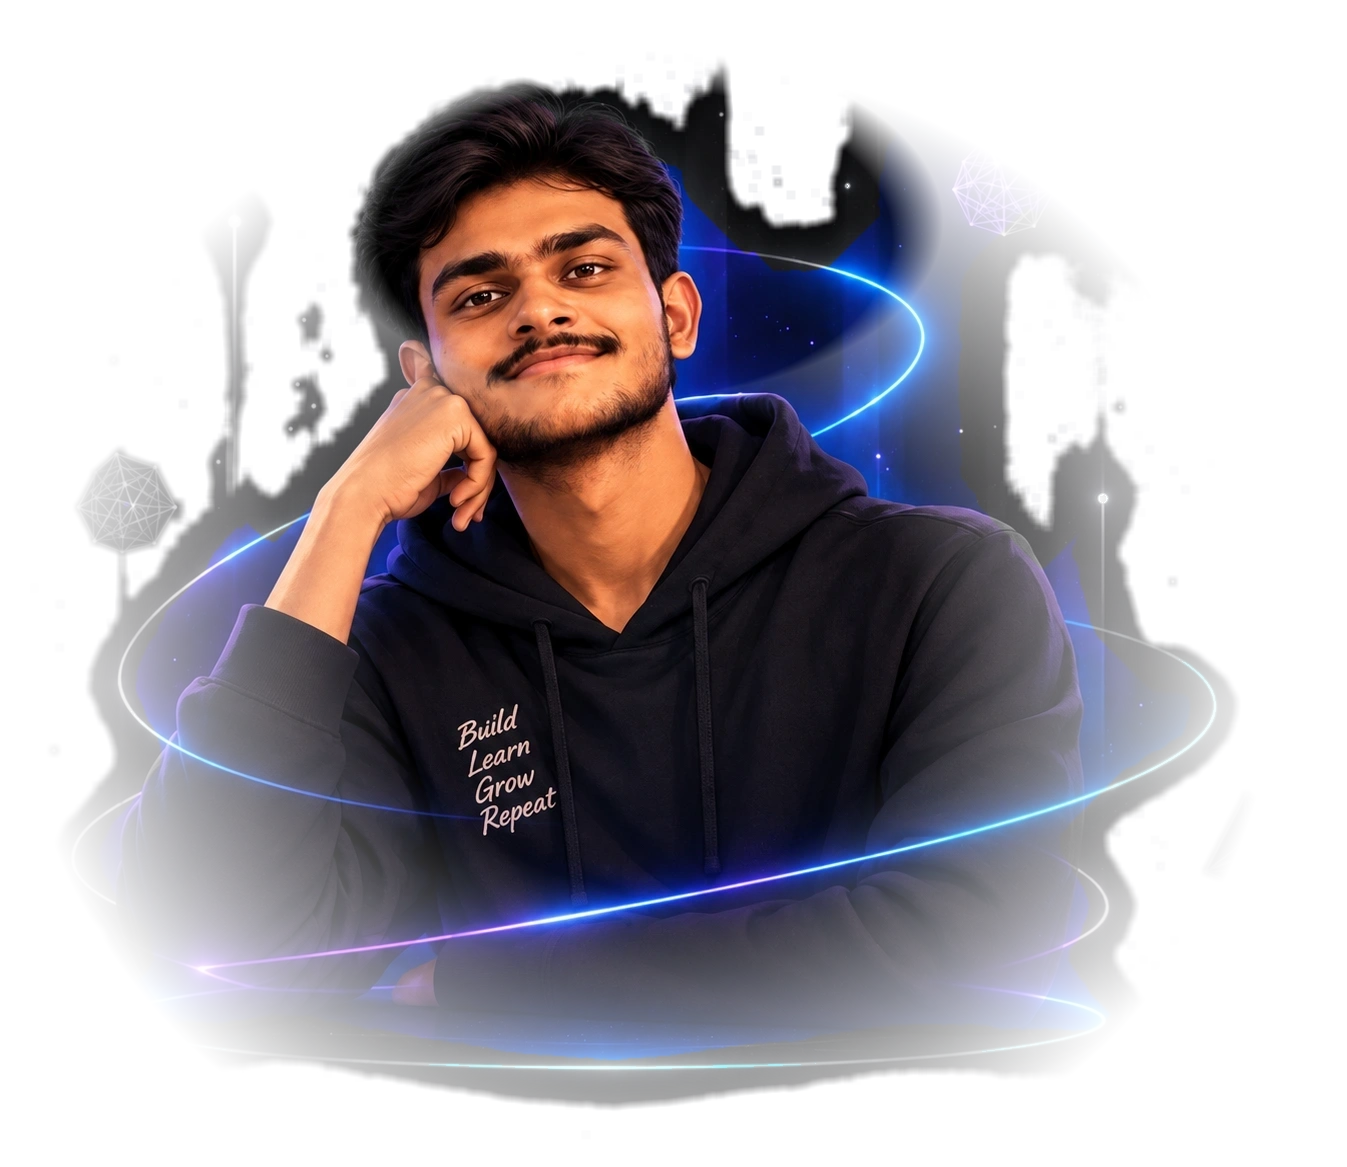
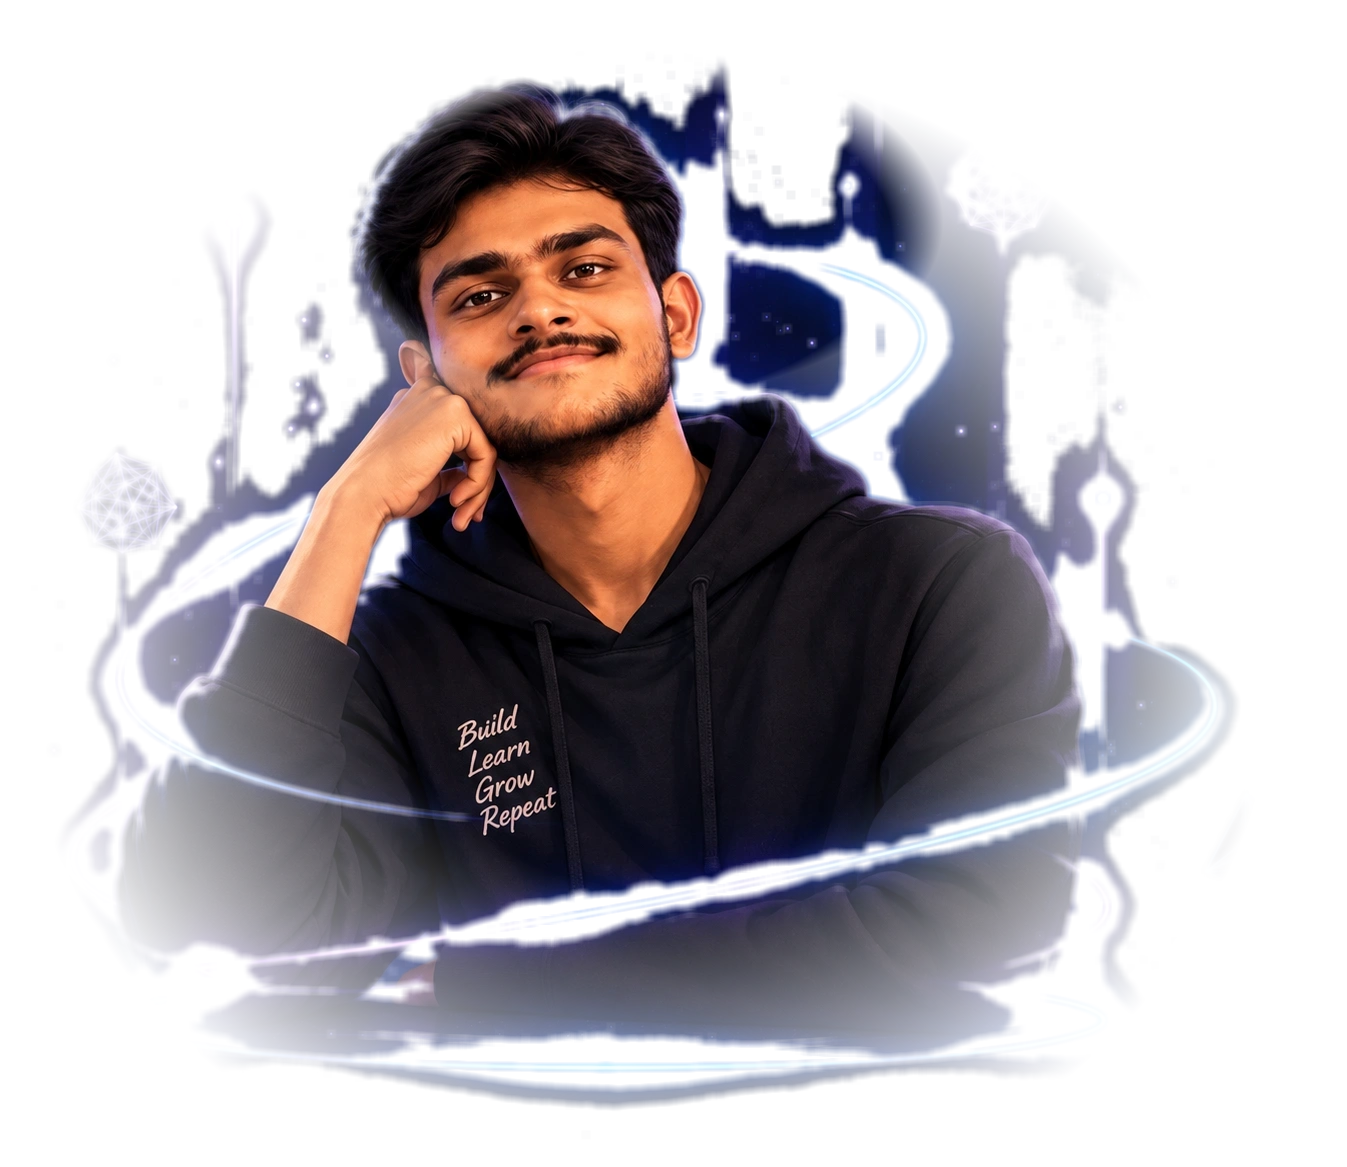
Rebuild cutout pipeline, clear rings from face, enlarge portrait ~25%
The residual background patch fused to the hoodie (a recurring issue)
finally gets resolved: after the safe border flood-fill, a second pass
strips any remaining pixel that is BOTH saturated and blue/purple-hued,
regardless of connectivity - this is what pure flood-fill could never
separate, since the patch and the hoodie share similar RGB values along
their connected boundary. Tuned the saturation/lightness thresholds
carefully (an earlier attempt was too aggressive and ate holes in the
hoodie fabric, which has genuine faint blue ambient shading) so only
vivid glow/ring pixels get removed, not fabric shading. This also
removes the photo's own baked-in ring, which is fine since fresh
procedural 3D rings replace it.

Orbit rings were passing directly across the eyes/face - moved them
down (yOffset) so they clear the chin entirely and wrap the torso/
shoulders only, per explicit requirement that they never cross the
face.

Grew the portrait notably: the previous width increases were mostly
inert because the CSS px cap was never the real constraint - the grid
column width was. Rebalanced hero-grid from 1.05fr/0.95fr to
0.85fr/1.15fr, which is what actually grows the rendered portrait size
(~25%) while keeping the text column within its existing max-width.

diff --git a/src/components/hero/HeroPortraitScene.jsx b/src/components/hero/HeroPortraitScene.jsx
@@ -37,14 +37,14 @@ function Portrait({ texture, floatEnabled }) {
   );
 }
 
-function OrbitRing({ radius, tilt, speed, color, opacity, thickness = 0.014, direction = 1 }) {
+function OrbitRing({ radius, tilt, speed, color, opacity, thickness = 0.014, direction = 1, yOffset = 0 }) {
   const ref = useRef(null);
   useFrame((_, delta) => {
     if (!ref.current) return;
     ref.current.rotation.z += delta * speed * direction;
   });
   return (
-    <mesh ref={ref} rotation={[tilt, 0, 0]}>
+    <mesh ref={ref} position={[0, yOffset, 0]} rotation={[tilt, 0, 0]}>
       <torusGeometry args={[radius, thickness, 10, 96]} />
       <meshBasicMaterial color={color} transparent opacity={opacity} toneMapped={false} />
     </mesh>
@@ -68,8 +68,8 @@ function SceneContent({ texture, reducedMotion }) {
   return (
     <ParallaxRig intensity={0.09} enabled={!reducedMotion}>
       <Portrait texture={texture} floatEnabled={!reducedMotion} />
-      <OrbitRing radius={2.0} tilt={1.4} speed={0.22} color="#5b7fff" opacity={0.55} direction={1} />
-      <OrbitRing radius={2.3} tilt={1.35} speed={0.16} color="#9b6bff" opacity={0.4} direction={-1} />
+      <OrbitRing radius={2.0} tilt={1.4} speed={0.22} color="#5b7fff" opacity={0.55} direction={1} yOffset={-0.55} />
+      <OrbitRing radius={2.3} tilt={1.35} speed={0.16} color="#9b6bff" opacity={0.4} direction={-1} yOffset={-0.62} />
     </ParallaxRig>
   );
 }

diff --git a/src/components/Hero.css b/src/components/Hero.css
@@ -11,7 +11,7 @@
   position: relative;
   z-index: 1;
   display: grid;
-  grid-template-columns: 1.05fr 0.95fr;
+  grid-template-columns: 0.85fr 1.15fr;
   align-items: center;
   gap: 2.5rem;
 }
